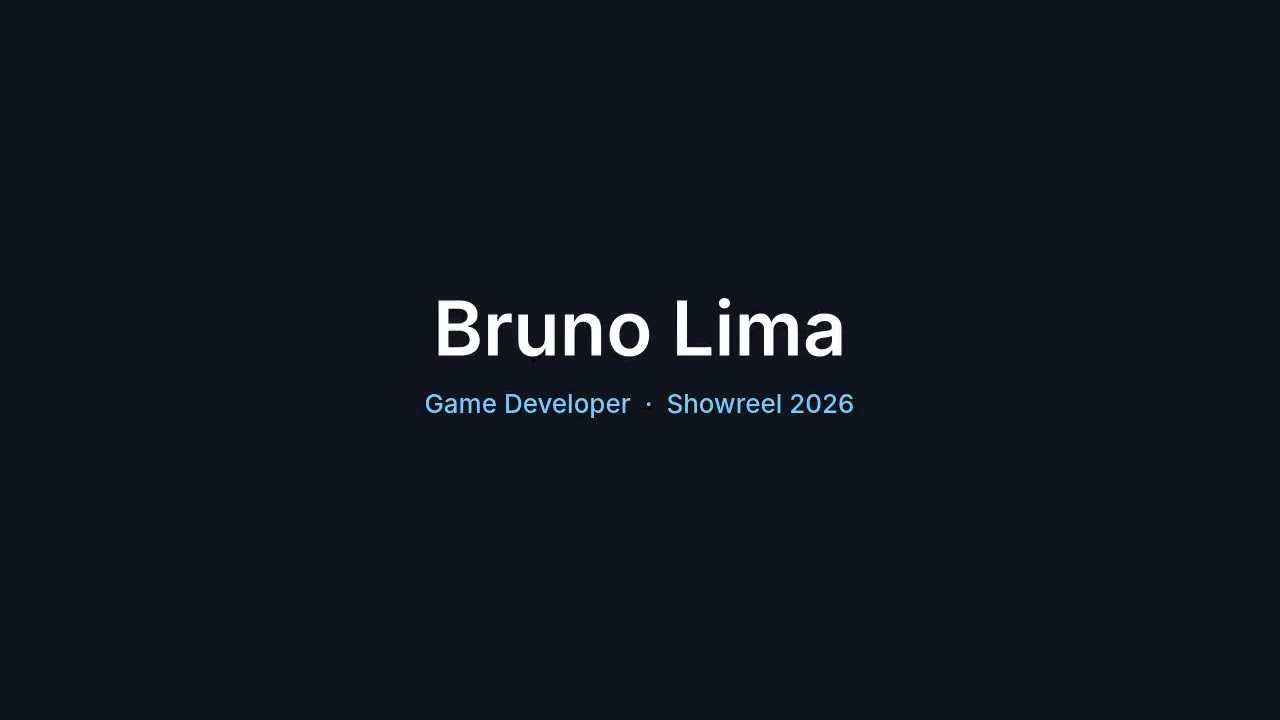
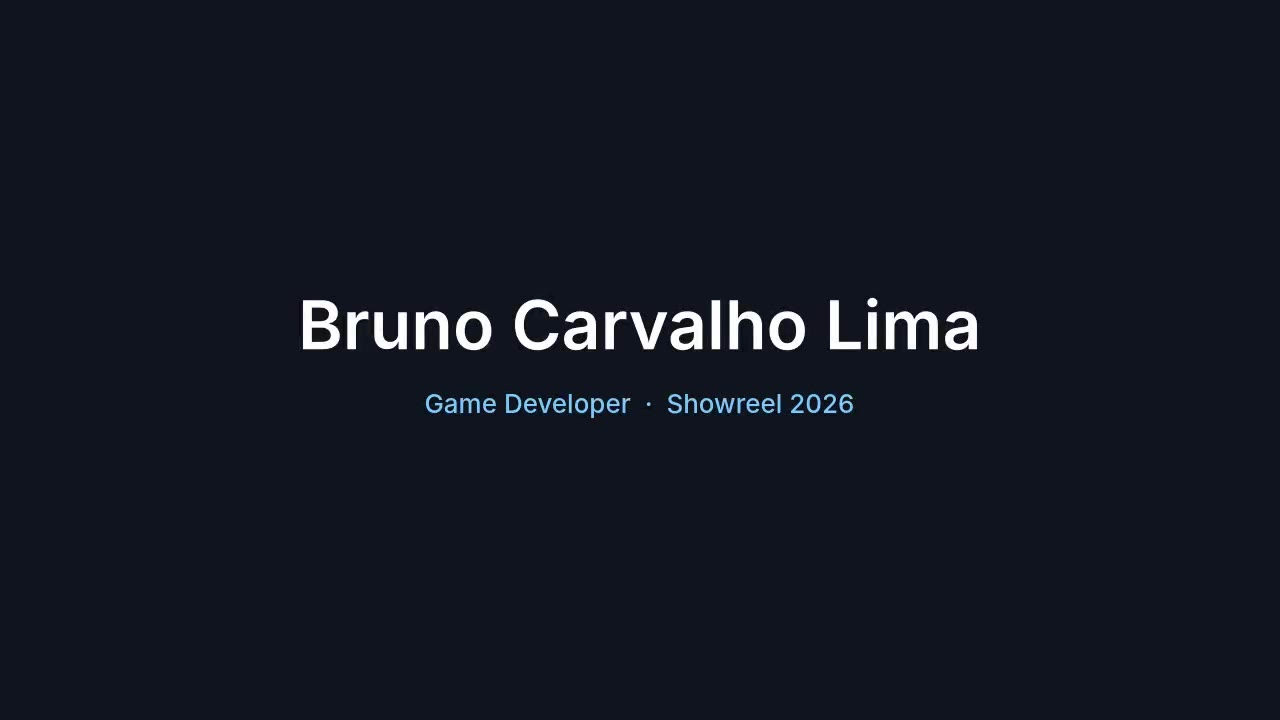
Livelier Physarum hero, full name, bigger photo
Claude-Session: https://claude.ai/code/session_01Em7RrrVyL7QB55GNCqwCHB

Changed region(s): [[0.2188, 0.3972, 0.7812, 0.5194]]

diff --git a/hero-bg.js b/hero-bg.js
@@ -3,14 +3,14 @@
 const cv = document.getElementById('hero-bg');
 if (!cv) return;
 const hero = cv.parentElement, ctx = cv.getContext('2d');
-const reduce = matchMedia('(prefers-reduced-motion: reduce)').matches;
+const reduce = false;   // the hero always animates (owner's choice); reduced-motion handling kept below if needed
 const TS = 14, SUB = 2;                       // tile size in CSS px, sim cells per tile side
-const SA = .45, SD = 7, TURN = .7, SPEED = 1, DECAY = .9;
+const SA = .45, SD = 7, TURN = .7, SPEED = 1.4, DECAY = .92;
 const LEVELS = 8;
 const COLORS = Array.from({ length: LEVELS }, (_, i) => {
   const k = (i + 1) / LEVELS;                 // navy → steel blue → glow → pale
   const r = Math.round(40 + 160 * k ** 1.4), g = Math.round(80 + 160 * k ** 1.1), b = Math.round(120 + 135 * k ** .8);
-  return `rgba(${r},${g},${b},${(.06 + .5 * k).toFixed(3)})`;
+  return `rgba(${r},${g},${b},${(.08 + .62 * k).toFixed(3)})`;
 });
 
 let W, H, cols, rows, SW, SH, trail, tmp, agents, mul, gridPat, peak = 1;
@@ -23,13 +23,13 @@ function size() {
   ctx.setTransform(dpr, 0, 0, dpr, 0, 0);
   cols = Math.ceil(W / TS); rows = Math.ceil(H / TS); SW = cols * SUB; SH = rows * SUB;
   trail = new Float32Array(SW * SH); tmp = new Float32Array(SW * SH);
-  const n = Math.min(3800, Math.round(SW * SH * .2));
+  const n = Math.min(4600, Math.round(SW * SH * .24));
   agents = Array.from({ length: n }, () => ({ x: Math.random() * SW, y: Math.random() * SH, a: Math.random() * 6.283 }));
   // dim the tiles behind the hero text (centre) so it stays readable
   mul = new Float32Array(cols * rows);
   for (let y = 0; y < rows; y++) for (let x = 0; x < cols; x++) {
     const dx = (x + .5) / cols - .5, dy = ((y + .5) / rows - .48) * 1.3, d = Math.hypot(dx, dy);
-    mul[y * cols + x] = Math.min(1, .35 + Math.max(0, d - .12) * 2.6);
+    mul[y * cols + x] = Math.min(1, .5 + Math.max(0, d - .12) * 2.6);
   }
   const p = document.createElement('canvas'); p.width = p.height = TS;
   const pc = p.getContext('2d'); pc.fillStyle = 'rgba(180,210,230,.045)'; pc.fillRect(0, 0, TS, 1); pc.fillRect(0, 0, 1, TS);
@@ -41,14 +41,22 @@ const sense = (a, o) => {
   return x >= 0 && y >= 0 && x < SW && y < SH ? trail[y * SW + x] : -1;
 };
 
+function food(px, py, r, amt) {
+  const cx = (px / TS * SUB) | 0, cy = (py / TS * SUB) | 0;
+  for (let oy = -r; oy <= r; oy++) for (let ox = -r; ox <= r; ox++) {
+    if (ox * ox + oy * oy > r * r) continue;
+    const X = cx + ox, Y = cy + oy;
+    if (X >= 0 && Y >= 0 && X < SW && Y < SH) trail[Y * SW + X] += amt;
+  }
+}
+let pulseAt = 0;
 function step() {
   // the cursor (real or autopilot) keeps dropping food, so the network grows toward it
-  const cx = (mx / TS * SUB) | 0, cy = (my / TS * SUB) | 0;
-  for (let oy = -3; oy <= 3; oy++) for (let ox = -3; ox <= 3; ox++) {
-    if (ox * ox + oy * oy > 9) continue;
-    const X = cx + ox, Y = cy + oy;
-    if (X >= 0 && Y >= 0 && X < SW && Y < SH) trail[Y * SW + X] += 1.2;
-  }
+  food(mx, my, 3, 1.4);
+  // a second, slower food source wanders on its own so the web keeps shifting
+  food(W * (.5 - .38 * Math.cos(t * .17 + 2)), H * (.5 + .3 * Math.cos(t * .27 + 1)), 3, .9);
+  // every few seconds a burst of food appears somewhere and pulls a new branch out
+  if (t > pulseAt) { pulseAt = t + 2 + Math.random() * 2; food(W * (.08 + Math.random() * .84), H * (.1 + Math.random() * .75), 6, 5); }
   for (const a of agents) {
     if (Math.random() < .002) { a.x = Math.random() * SW; a.y = Math.random() * SH; a.a = Math.random() * 6.283; }
     const l = sense(a, -SA), f = sense(a, 0), r = sense(a, SA);
@@ -98,8 +106,8 @@ function settle() {                 // set the brightness scale from the current
 }
 
 function autopilot() {               // slow drifting point when nobody is steering
-  mx = W * (.5 + .36 * Math.cos(t * .23) * Math.sin(t * .11 + 1));
-  my = H * (.5 + .34 * Math.sin(t * .31));
+  mx = W * (.5 + .38 * Math.cos(t * .39) * Math.sin(t * .19 + 1));
+  my = H * (.5 + .34 * Math.sin(t * .53));
 }
 
 addEventListener('pointermove', e => {
@@ -126,11 +134,11 @@ if (reduce) {                       // reduced motion: show the grown network as
 let last = 0;
 const loop = now => {
   requestAnimationFrame(loop);
-  if (!visible || document.hidden || now - last < 31) return;   // ~30 fps is plenty for this motion
+  if (!visible || document.hidden || now - last < 21) return;   // ~45 fps
   const steering = now - lastMove < 2500;
   if (reduce && !steering) return;     // reduced motion: only moves while the visitor moves the mouse
   last = now;
-  t += 1 / 30;
+  t += 1 / 45;
   if (!steering) autopilot();
   step(); draw();
 };

diff --git a/index.html b/index.html
@@ -3,7 +3,7 @@
 <head>
 <meta charset="utf-8">
 <meta name="viewport" content="width=device-width, initial-scale=1">
-<title>Bruno Lima, Game Developer</title>
+<title>Bruno Carvalho Lima, Game Developer</title>
 <meta name="description" content="Game developer portfolio of Bruno Carvalho Lima">
 <link rel="preconnect" href="https://fonts.googleapis.com">
 <link rel="preconnect" href="https://fonts.gstatic.com" crossorigin>
@@ -56,11 +56,11 @@ a{color:inherit;text-decoration:none}
 .hero{position:relative;overflow:hidden}
 #hero-bg{position:absolute;inset:0;width:100%;height:100%;pointer-events:none;-webkit-mask-image:linear-gradient(#000 70%,transparent);mask-image:linear-gradient(#000 70%,transparent)}
 .hero>.wrap{position:relative;z-index:1}
-.avatar{width:96px;height:96px;margin:0 auto 34px;border-radius:50%;display:grid;place-items:center;
+.avatar{width:clamp(120px,14vw,150px);height:clamp(120px,14vw,150px);margin:0 auto 30px;border-radius:50%;display:grid;place-items:center;
   background:radial-gradient(circle at 35% 30%,#d1dae0,#5a6165);box-shadow:0 20px 50px -10px rgba(0,0,0,.7),0 0 0 4px rgba(255,255,255,.06)}
 .avatar img{width:100%;height:100%;border-radius:50%;object-fit:cover;display:block}
 .avatar b{font:600 34px/1 "Hanken Grotesk",sans-serif;color:#0f151f;letter-spacing:-.02em}
-h1{margin:0;font-weight:500;font-size:clamp(36px,6vw,52px);line-height:1.05;letter-spacing:-.02em;
+h1{margin:0;font-weight:500;font-size:clamp(34px,6vw,56px);text-wrap:balance;line-height:1.05;letter-spacing:-.02em;
   background:radial-gradient(90% 300% at 40% 20%,#fff 0%,rgba(255,255,255,.4) 100%);-webkit-background-clip:text;background-clip:text;color:transparent}
 .role{margin:14px 0 0;font-size:18px;color:var(--soft);max-width:30em;margin-inline:auto;text-wrap:balance}
 .cta{display:flex;gap:12px;justify-content:center;margin-top:30px;flex-wrap:wrap}
@@ -240,8 +240,8 @@ footer nav{display:flex;flex-wrap:wrap;gap:10px 22px}footer a:hover{color:#fff}
   <section class="hero">
     <canvas id="hero-bg" aria-hidden="true"></canvas>
     <div class="wrap">
-      <div class="avatar reveal"><img src="img/avatar.jpg" alt="Bruno Lima" width="96" height="96"></div>
-      <h1 class="reveal">Bruno Lima</h1>
+      <div class="avatar reveal"><img src="img/avatar.jpg?v=2" alt="Bruno Carvalho Lima" width="150" height="150"></div>
+      <h1 class="reveal">Bruno Carvalho Lima</h1>
       <p class="role reveal">Game developer from Fortaleza, building multiplayer, procedural and multi-platform games in Unity &amp; C#.</p>
       <div class="cta reveal">
         <a class="btn dark" href="mailto:brunoorvalho@gmail.com">Let's talk</a>
@@ -254,8 +254,8 @@ footer nav{display:flex;flex-wrap:wrap;gap:10px 22px}footer a:hover{color:#fff}
 
   <section id="reel" class="wrap reel">
     <div class="reel-frame">
-      <video id="reel-video" controls muted playsinline preload="metadata" poster="img/showreel-poster.jpg">
-        <source src="video/showreel.mp4?v=2" type="video/mp4">
+      <video id="reel-video" controls muted playsinline preload="metadata" poster="img/showreel-poster.jpg?v=2">
+        <source src="video/showreel.mp4?v=3" type="video/mp4">
       </video>
     </div>
     <p class="cap">Showreel 2026. Footage from the official trailers of games I worked on, plus the terrain lab.</p>
@@ -450,7 +450,7 @@ public static class Platform {
   </div>
 </footer>
 
-<script src="i18n.js?v=4"></script>
+<script src="i18n.js?v=5"></script>
 <script>
 {
 const $=s=>document.querySelector(s);
@@ -520,6 +520,6 @@ new IntersectionObserver(es=>es.forEach(e=>{if(e.isIntersecting&&!reelStarted&&!
 }
 </script>
 <script src="lab.js?v=3"></script>
-<script src="hero-bg.js?v=3"></script>
+<script src="hero-bg.js?v=4"></script>
 </body>
 </html>

diff --git a/i18n.js b/i18n.js
@@ -183,7 +183,8 @@ const D = {
   'Terrain lab: side-view tile world': ['Laboratório de terreno: mundo de tiles em visão lateral', 'Laboratorio de terreno: mundo de tiles en vista lateral'],
   'Little Sim World gameplay': ['Gameplay de Little Sim World', 'Gameplay de Little Sim World'],
   'Case Solved: The London Files gameplay': ['Gameplay de Case Solved: The London Files', 'Gameplay de Case Solved: The London Files'],
-  'Bruno Lima, Game Developer': ['Bruno Lima, Desenvolvedor de Jogos', 'Bruno Lima, Desarrollador de Videojuegos']
+  'Bruno Carvalho Lima, Game Developer': ['Bruno Carvalho Lima, Desenvolvedor de Jogos', 'Bruno Carvalho Lima, Desarrollador de Videojuegos'],
+  'Bruno Carvalho Lima': ['Bruno Carvalho Lima', 'Bruno Carvalho Lima']
 };
 
 const BIO = {
